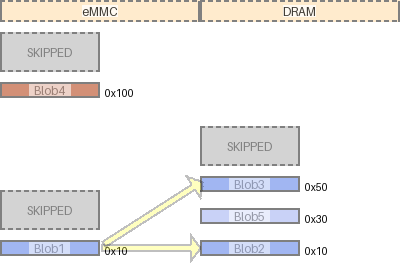
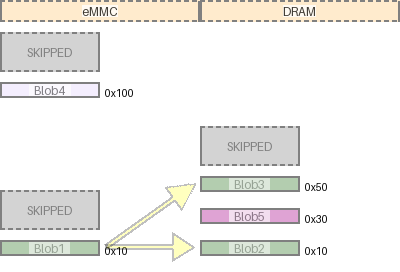
arrow adjustments

Changed region(s): [[0.0, 0.6471, 0.75, 0.9706], [0.48, 0.7647, 0.75, 0.8235], [0.0, 0.2941, 0.27, 0.3529]]

diff --git a/mm/diagram.py b/mm/diagram.py
@@ -265,30 +265,31 @@ class Diagram:
                         if mmd.name == mmd_parent_name:
                             for target_region in mmd.image_list:
                                 if target_region.name == region_child_name:
-                                    
+                                    padding = 5
                                     # determine which side of the region block we are drawing to/from
                                     if source_mmd_idx < target_mmd_idx:
-                                        source_justify = region_image.img.width // 2
+                                        source_justify = (region_image.img.width // 2) + padding
                                     else:
-                                        source_justify = -(region_image.img.width // 2)
+                                        source_justify = -(region_image.img.width // 2) - padding
 
                                     if target_mmd_idx < source_mmd_idx:
-                                        target_justify = target_region.img.width // 2
+                                        target_justify = (target_region.img.width // 2) + padding
                                     else:
-                                        target_justify = -(target_region.img.width // 2)                                
-                                    
+                                        target_justify = -(target_region.img.width // 2) - padding                       
+
+                                               
                                     arrow = mm.image.ArrowBlock(
                                         src=mm.image.Point(
                                             (source_mmd_idx * mmd.width) + source_region_mid_pos_x + source_justify,
-                                            source_region_mid_pos_y - 1
+                                            source_region_mid_pos_y
                                         ),
                                         dst=mm.image.Point(
                                             (target_mmd_idx * mmd.width) + target_region.abs_mid_pos.x + target_justify, 
-                                            target_region.abs_mid_pos.y - 1
+                                            target_region.abs_mid_pos.y
                                         ),
                                         head_width=30,
-                                        tail_len=90,
-                                        tail_width=25,
+                                        tail_len=75,
+                                        tail_width=15,
                                         fill="yellow"
                                     )
                                     final_diagram_img = arrow.overlay(final_diagram_img, mm.image.Point(arrow.pos.x, arrow.pos.y), 64)

diff --git a/tests/test_arrow.py b/tests/test_arrow.py
@@ -36,7 +36,7 @@ def test_arrow_0():
     bg = a.overlay(bg, actual_coords, 128)    
     bg.save("out/tmp/arrow_0.png")
 
-    expected_coords = mm.image.Point(51,31)
+    expected_coords = mm.image.Point(50,31)
     assert expected_coords == actual_coords
     assert a.l == 50
 
@@ -66,7 +66,7 @@ def test_arrow_pos45():
     bg = a.overlay(bg, actual_coords, 128)    
     bg.save("out/tmp/arrow_pos45.png")
 
-    expected_coords = mm.image.Point(51,51)
+    expected_coords = mm.image.Point(49,49)
     assert expected_coords == actual_coords
     assert a.l == 70
 
@@ -96,7 +96,7 @@ def test_arrow_pos90():
     bg = a.overlay(bg, actual_coords, 128)    
     bg.save("out/tmp/arrow_pos90.png")
     
-    expected_coords = mm.image.Point(31,41)
+    expected_coords = mm.image.Point(31,39)
     assert expected_coords == actual_coords
     assert a.l == 60
 
@@ -126,7 +126,7 @@ def test_arrow_pos135():
     bg = a.overlay(bg, actual_coords, 128)    
     bg.save("out/tmp/arrow_pos135.png")
 
-    expected_coords = mm.image.Point(45, 51)
+    expected_coords = mm.image.Point(47, 49)
     assert expected_coords == actual_coords
     assert a.l == 70
 
@@ -155,7 +155,7 @@ def test_arrow_pos180():
     bg = a.overlay(bg, actual_coords, 128)    
     bg.save("out/tmp/arrow_pos180.png")
 
-    expected_coords = mm.image.Point(20,30)
+    expected_coords = mm.image.Point(22,30)
     assert expected_coords == actual_coords
     assert a.l == 80
 
@@ -184,7 +184,7 @@ def test_arrow_neg135():
     bg = a.overlay(bg, actual_coords, 128)    
     bg.save("out/tmp/arrow_neg135.png")
 
-    expected_coords = mm.image.Point(45, 45)
+    expected_coords = mm.image.Point(47, 47)
     assert expected_coords == actual_coords
     assert a.l == 70
 
@@ -213,7 +213,7 @@ def test_arrow_neg90():
     bg = a.overlay(bg, actual_coords, 128)    
     bg.save("out/tmp/arrow_neg90.png")
 
-    expected_coords = mm.image.Point(30,50)
+    expected_coords = mm.image.Point(30,52)
     assert expected_coords == actual_coords
     assert a.l == 50
 
@@ -243,7 +243,7 @@ def test_arrow_neg45():
     bg = a.overlay(bg, actual_coords, 128)    
     bg.save("out/tmp/arrow_neg45.png")
 
-    expected_coords = mm.image.Point(51,45)
+    expected_coords = mm.image.Point(49,47)
     assert expected_coords == actual_coords
     assert a.l == 70
 

diff --git a/mm/image.py b/mm/image.py
@@ -418,27 +418,29 @@ class ArrowBlock(Image):
                 (0, 0, self.img.width, self.img.height), 
                 outline="black", width=3)
             
-
-        if self.degs < 100 and self.degs > 80:      # 90 degs
+        # final position adjustments
+        if self.degs < 10 and self.degs > -10:      # 0 degs
+            x = src.x
+        elif self.degs < 100 and self.degs > 80:      # 90 degs
             x = src.x - (self.img.width // 2) + 1
         elif self.degs < -80 and self.degs > -100:   # -90 degs
             x = src.x - (self.img.width // 2)
         elif self.degs < 90 and self.degs > -90:      # -45 degs
-            x = src.x + 1
+            x = src.x - 1
         else:                                       # -135, 135, 180 degs
             if self.degs > 0:
-                x = src.x - self.img.width
+                x = src.x - self.img.width + 2
             else:
-                x = src.x - self.img.width
+                x = src.x - self.img.width + 2
         
         if self.degs < 10 and self.degs > -10:      # 0 degs
             y = src.y - (self.img.height // 2) + 1
         elif self.degs < 190 and self.degs > 170:   # 180 degs
             y = src.y - self.img.height // 2
         elif self.degs > 0:                         # 45 degs
-            y = src.y + 1
+            y = src.y - 1
         else:                                        # -45, -90, -135 deg 
-            y = src.y - self.img.height 
+            y = src.y - self.img.height + 2
 
         self.pos = Point(
             x=x,

diff --git a/tests/test_docs.py b/tests/test_docs.py
@@ -178,7 +178,7 @@ def test_generate_doc_example_three_maps(input, file_setup):
                 "origin": hex(80),
                 "size": hex(32),
                 "links": [
-                    ["DRAM", "Blob4"],
+                    ["DRAM", "Blob3"],
                     ["DRAM", "Blob5"]
                 ]
             }

diff --git a/doc/example/test_generate_doc_example_three_maps.md b/doc/example/test_generate_doc_example_three_maps.md
@@ -1,10 +1,10 @@
 ![memory map diagram](test_generate_doc_example_three_maps_cropped.png)
 |name|origin|size|free Space|collisions
 |:-|:-|:-|:-|:-|
-|<span style='color:(158, 174, 240, 170)'>Blob5</span>|0x78|0x20|0x350|{}|
-|<span style='color:(83, 121, 231, 227)'>Blob3</span>|0x50|0x20|0x8|{}|
-|<span style='color:(249, 213, 162, 227)'>Blob7</span>|0x50|0x20|0x378|{}|
-|<span style='color:(177, 57, 12, 177)'>Blob4</span>|0x28|0x20|0x8|{}|
-|<span style='color:(225, 102, 10, 78)'>Blob6</span>|0xa|0x3c|0xa|{}|
-|<span style='color:(83, 121, 231, 227)'>Blob1</span>|0x0|0x20|0x3c8|{}|
-|<span style='color:(83, 121, 231, 227)'>Blob2</span>|0x0|0x20|0x8|{}|
+|<span style='color:(180, 39, 154, 97)'>Blob5</span>|0x78|0x20|0x350|{}|
+|<span style='color:(116, 164, 108, 226)'>Blob3</span>|0x50|0x20|0x8|{}|
+|<span style='color:(136, 208, 141, 112)'>Blob7</span>|0x50|0x20|0x378|{}|
+|<span style='color:(131, 62, 245, 16)'>Blob4</span>|0x28|0x20|0x8|{}|
+|<span style='color:(77, 95, 183, 32)'>Blob6</span>|0xa|0x3c|0xa|{}|
+|<span style='color:(116, 164, 108, 226)'>Blob1</span>|0x0|0x20|0x3c8|{}|
+|<span style='color:(116, 164, 108, 226)'>Blob2</span>|0x0|0x20|0x8|{}|

diff --git a/doc/example/test_generate_doc_example_two_maps.md b/doc/example/test_generate_doc_example_two_maps.md
@@ -1,8 +1,8 @@
 ![memory map diagram](test_generate_doc_example_two_maps_cropped.png)
 |name|origin|size|free Space|collisions
 |:-|:-|:-|:-|:-|
-|<span style='color:(177, 57, 12, 177)'>Blob4</span>|0x100|0x10|0x2d8|{}|
-|<span style='color:(83, 121, 231, 227)'>Blob3</span>|0x50|0x10|0x388|{}|
-|<span style='color:(158, 174, 240, 170)'>Blob5</span>|0x30|0x10|0x10|{}|
-|<span style='color:(83, 121, 231, 227)'>Blob1</span>|0x10|0x10|0xe0|{}|
-|<span style='color:(83, 121, 231, 227)'>Blob2</span>|0x10|0x10|0x10|{}|
+|<span style='color:(131, 62, 245, 16)'>Blob4</span>|0x100|0x10|0x2d8|{}|
+|<span style='color:(116, 164, 108, 226)'>Blob3</span>|0x50|0x10|0x388|{}|
+|<span style='color:(180, 39, 154, 97)'>Blob5</span>|0x30|0x10|0x10|{}|
+|<span style='color:(116, 164, 108, 226)'>Blob1</span>|0x10|0x10|0xe0|{}|
+|<span style='color:(116, 164, 108, 226)'>Blob2</span>|0x10|0x10|0x10|{}|

diff --git a/doc/example/test_generate_doc_example_collisions.md b/doc/example/test_generate_doc_example_collisions.md
@@ -1,6 +1,6 @@
 ![memory map diagram](test_generate_doc_example_collisions_cropped.png)
 |name|origin|size|free Space|collisions
 |:-|:-|:-|:-|:-|
-|<span style='color:(113, 1, 79, 98)'>dtb</span>|0x90|0x30|0x328|{'rootfs': '0x90'}|
-|<span style='color:(205, 30, 164, 219)'>rootfs</span>|0x50|0x50|-0x10|{'kernel': '0x50', 'dtb': '0x90'}|
-|<span style='color:(36, 164, 4, 70)'>kernel</span>|0x10|0x60|-0x20|{'rootfs': '0x50'}|
+|<span style='color:(237, 165, 89, 215)'>dtb</span>|0x90|0x30|0x328|{'rootfs': '0x90'}|
+|<span style='color:(197, 152, 189, 71)'>rootfs</span>|0x50|0x50|-0x10|{'kernel': '0x50', 'dtb': '0x90'}|
+|<span style='color:(132, 48, 71, 19)'>kernel</span>|0x10|0x60|-0x20|{'rootfs': '0x50'}|

diff --git a/doc/example/test_generate_doc_example_normal.md b/doc/example/test_generate_doc_example_normal.md
@@ -1,6 +1,6 @@
 ![memory map diagram](test_generate_doc_example_normal_cropped.png)
 |name|origin|size|free Space|collisions
 |:-|:-|:-|:-|:-|
-|<span style='color:(113, 1, 79, 98)'>dtb</span>|0x190|0x30|0x228|{}|
-|<span style='color:(205, 30, 164, 219)'>rootfs</span>|0x50|0x30|0x110|{}|
-|<span style='color:(36, 164, 4, 70)'>kernel</span>|0x10|0x30|0x10|{}|
+|<span style='color:(237, 165, 89, 215)'>dtb</span>|0x190|0x30|0x228|{}|
+|<span style='color:(197, 152, 189, 71)'>rootfs</span>|0x50|0x30|0x110|{}|
+|<span style='color:(132, 48, 71, 19)'>kernel</span>|0x10|0x30|0x10|{}|
